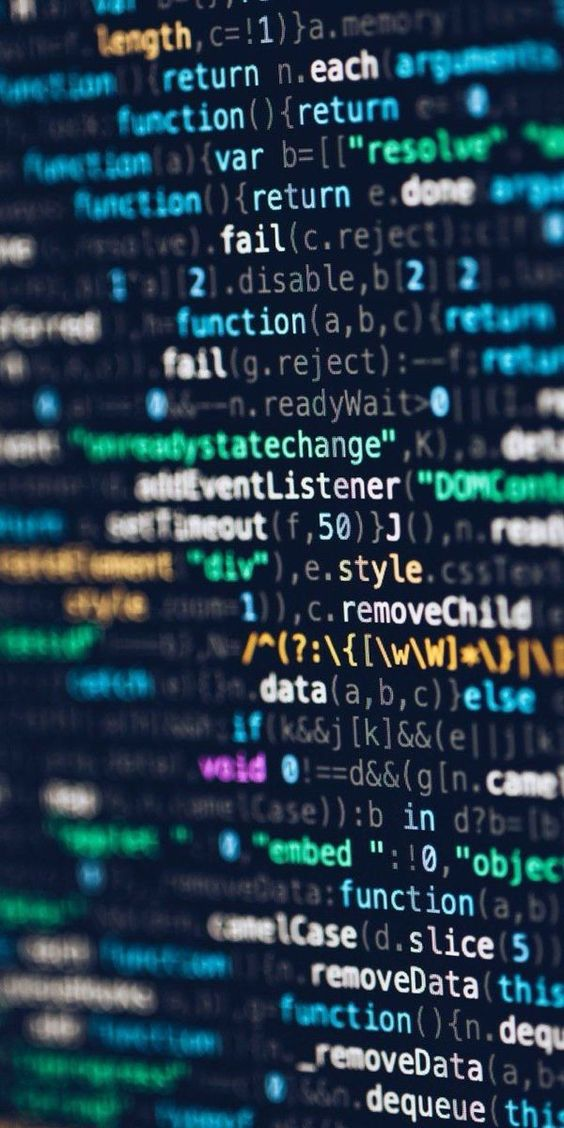
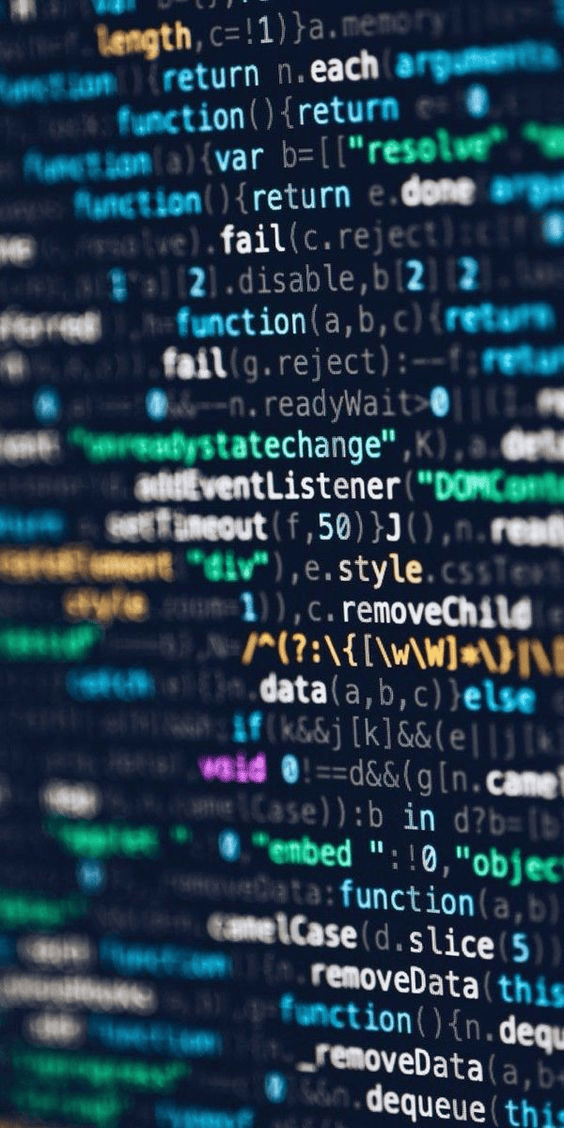
Refactor : 취약점 메인 페이지 LCP 개선

diff --git a/src/components/vulnerability-db/VulDBImageCardContainer.tsx b/src/components/vulnerability-db/VulDBImageCardContainer.tsx
@@ -15,10 +15,14 @@ import {
   CardTitleProps,
   CardTitleWrapper,
 } from "../ui/Card";
+import FirstThumbNailImage from "../../../public/images/cardThumbnail1.png";
+import SecondThumbNailImage from "../../../public/images/cardThumbnail2.png";
+import ThirdThumbNailImage from "../../../public/images/cardThumbnail3.png";
+import { StaticImageData } from "next/image";
 
 type cardStyles = {
   cardSize: "main" | "sub";
-  imageSrc: string;
+  imageSrc: StaticImageData;
   titleSize: "big" | "xsmall";
   subtitleSize: "big" | "base";
   titleWrapperWidth: "w-[27.5rem]" | "w-[8.5rem]";
@@ -91,21 +95,21 @@ export default function VulDBImageCardContainer({
     const cardStyles: cardStyles[] = [
       {
         cardSize: "main",
-        imageSrc: "/images/cardThumbnail1.png",
+        imageSrc: FirstThumbNailImage,
         titleSize: "big",
         subtitleSize: "big",
         titleWrapperWidth: "w-[27.5rem]",
       },
       {
         cardSize: "sub",
-        imageSrc: "/images/cardThumbnail2.png",
+        imageSrc: SecondThumbNailImage,
         titleSize: "xsmall",
         subtitleSize: "base",
         titleWrapperWidth: "w-[8.5rem]",
       },
       {
         cardSize: "sub",
-        imageSrc: "/images/cardThumbnail3.png",
+        imageSrc: ThirdThumbNailImage,
         titleSize: "xsmall",
         subtitleSize: "base",
         titleWrapperWidth: "w-[8.5rem]",
